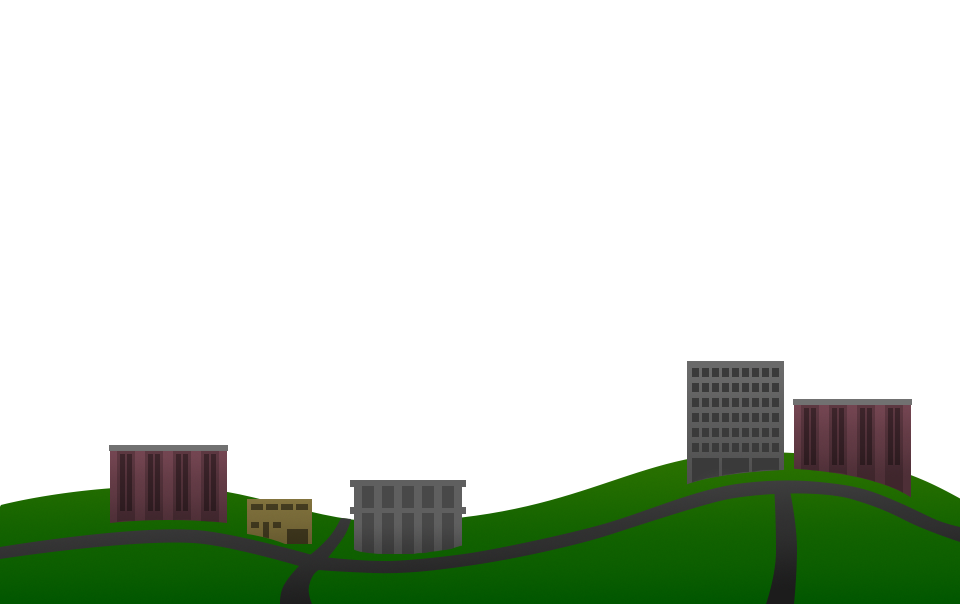
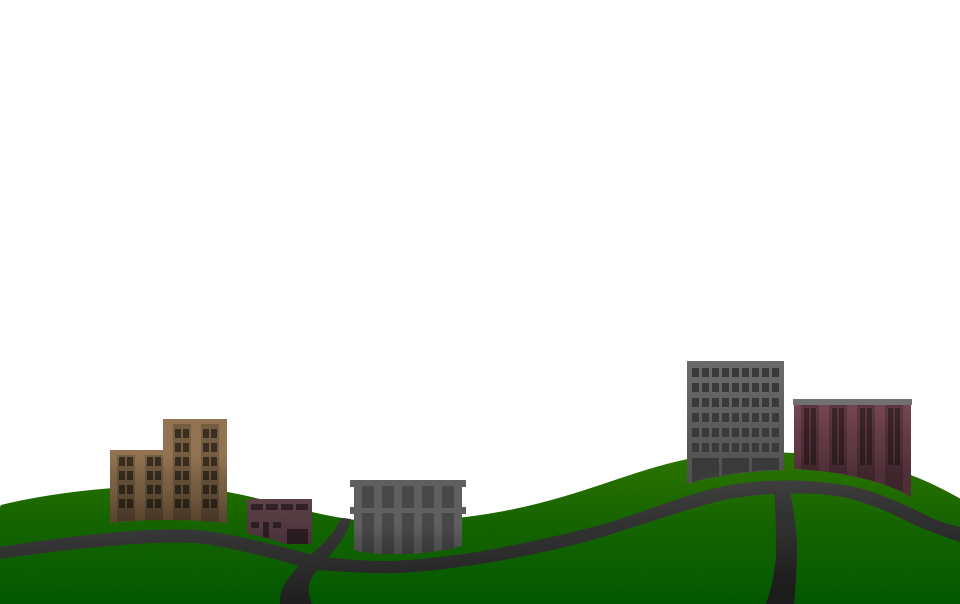
Made the glass layers tab use its own scene backdrop and added a bit more to the today graphic.

Changed region(s): [[0.0938, 0.6854, 0.3438, 0.894]]

diff --git a/greenhouse-effect/src/js/views/scene/base-greenhouse.js b/greenhouse-effect/src/js/views/scene/base-greenhouse.js
@@ -88,22 +88,7 @@ define(function(require) {
             );
         },
 
-        initBackground: function() {
-            this.bgIceAge = this.createScene(Assets.Images.SCENE_ICE_AGE);
-            this.bg1750   = this.createScene(Assets.Images.SCENE_1750);
-            this.bgToday  = this.createScene(Assets.Images.SCENE_TODAY);
-
-            if ($(window).height() <= 500) {
-                this.bgToday.y += 20;
-                this.bg1750.y += 20;
-            }
-
-            this.backgroundLayer.addChild(this.bgIceAge);
-            this.backgroundLayer.addChild(this.bg1750);
-            this.backgroundLayer.addChild(this.bgToday);
-
-            this.bgToday.visible = true;
-        },
+        initBackground: function() {},
 
         createScene: function(image) {
             var scene = Assets.createSprite(image);
@@ -225,24 +210,6 @@ define(function(require) {
 
         showFewerPhotons: function() {
             this.setVisiblePhotonProportion(0.1);
-        },
-
-        showTodayScene: function() {
-            this.bgIceAge.visible = false;
-            this.bg1750.visible   = false;
-            this.bgToday.visible  = true;
-        },
-
-        show1750Scene: function() {
-            this.bgIceAge.visible = false;
-            this.bg1750.visible   = true;
-            this.bgToday.visible  = false;
-        },
-
-        showIceAgeScene: function() {
-            this.bgIceAge.visible = true;
-            this.bg1750.visible   = false;
-            this.bgToday.visible  = false;
         }
 
     });

diff --git a/greenhouse-effect/src/js/views/scene/greenhouse-effect.js b/greenhouse-effect/src/js/views/scene/greenhouse-effect.js
@@ -30,6 +30,23 @@ define(function(require) {
             this.initClouds();
         },
 
+        initBackground: function() {
+            this.bgIceAge = this.createScene(Assets.Images.SCENE_ICE_AGE);
+            this.bg1750   = this.createScene(Assets.Images.SCENE_1750);
+            this.bgToday  = this.createScene(Assets.Images.SCENE_TODAY);
+
+            if ($(window).height() <= 500) {
+                this.bgToday.y += 20;
+                this.bg1750.y += 20;
+            }
+
+            this.backgroundLayer.addChild(this.bgIceAge);
+            this.backgroundLayer.addChild(this.bg1750);
+            this.backgroundLayer.addChild(this.bgToday);
+
+            this.bgToday.visible = true;
+        },
+
         initClouds: function() {
             this.cloudViews = [];
 
@@ -73,6 +90,24 @@ define(function(require) {
             });
             this.clouds.addChild(cloudView.displayObject);
             this.cloudViews.push(cloudView);
+        },
+
+        showTodayScene: function() {
+            this.bgIceAge.visible = false;
+            this.bg1750.visible   = false;
+            this.bgToday.visible  = true;
+        },
+
+        show1750Scene: function() {
+            this.bgIceAge.visible = false;
+            this.bg1750.visible   = true;
+            this.bgToday.visible  = false;
+        },
+
+        showIceAgeScene: function() {
+            this.bgIceAge.visible = true;
+            this.bg1750.visible   = false;
+            this.bgToday.visible  = false;
         }
 
     });

diff --git a/greenhouse-effect/src/js/views/scene/glass-layers.js b/greenhouse-effect/src/js/views/scene/glass-layers.js
@@ -30,6 +30,15 @@ define(function(require) {
             this.initGlassPanes();
         },
 
+        initBackground: function() {
+            this.bgGlass = this.createScene(Assets.Images.SCENE_GLASS);
+            this.bgGlass.visible = true;
+            this.backgroundLayer.addChild(this.bgGlass);
+
+            if ($(window).height() <= 500)
+                this.bgGlass.y += 20;
+        },
+
         initGlassPanes: function() {
             this.glassPaneViews = [];
 

diff --git a/greenhouse-effect/src/js/assets.js b/greenhouse-effect/src/js/assets.js
@@ -12,7 +12,8 @@ define(function (require) {
 
         SCENE_ICE_AGE: 'scene-ice-age.png',
         SCENE_1750:    'scene-1750.png',
-        SCENE_TODAY:   'scene-today.png'
+        SCENE_TODAY:   'scene-today.png',
+        SCENE_GLASS:   'scene-glass.png'
     };
 
     Assets.SpriteSheets = {};
